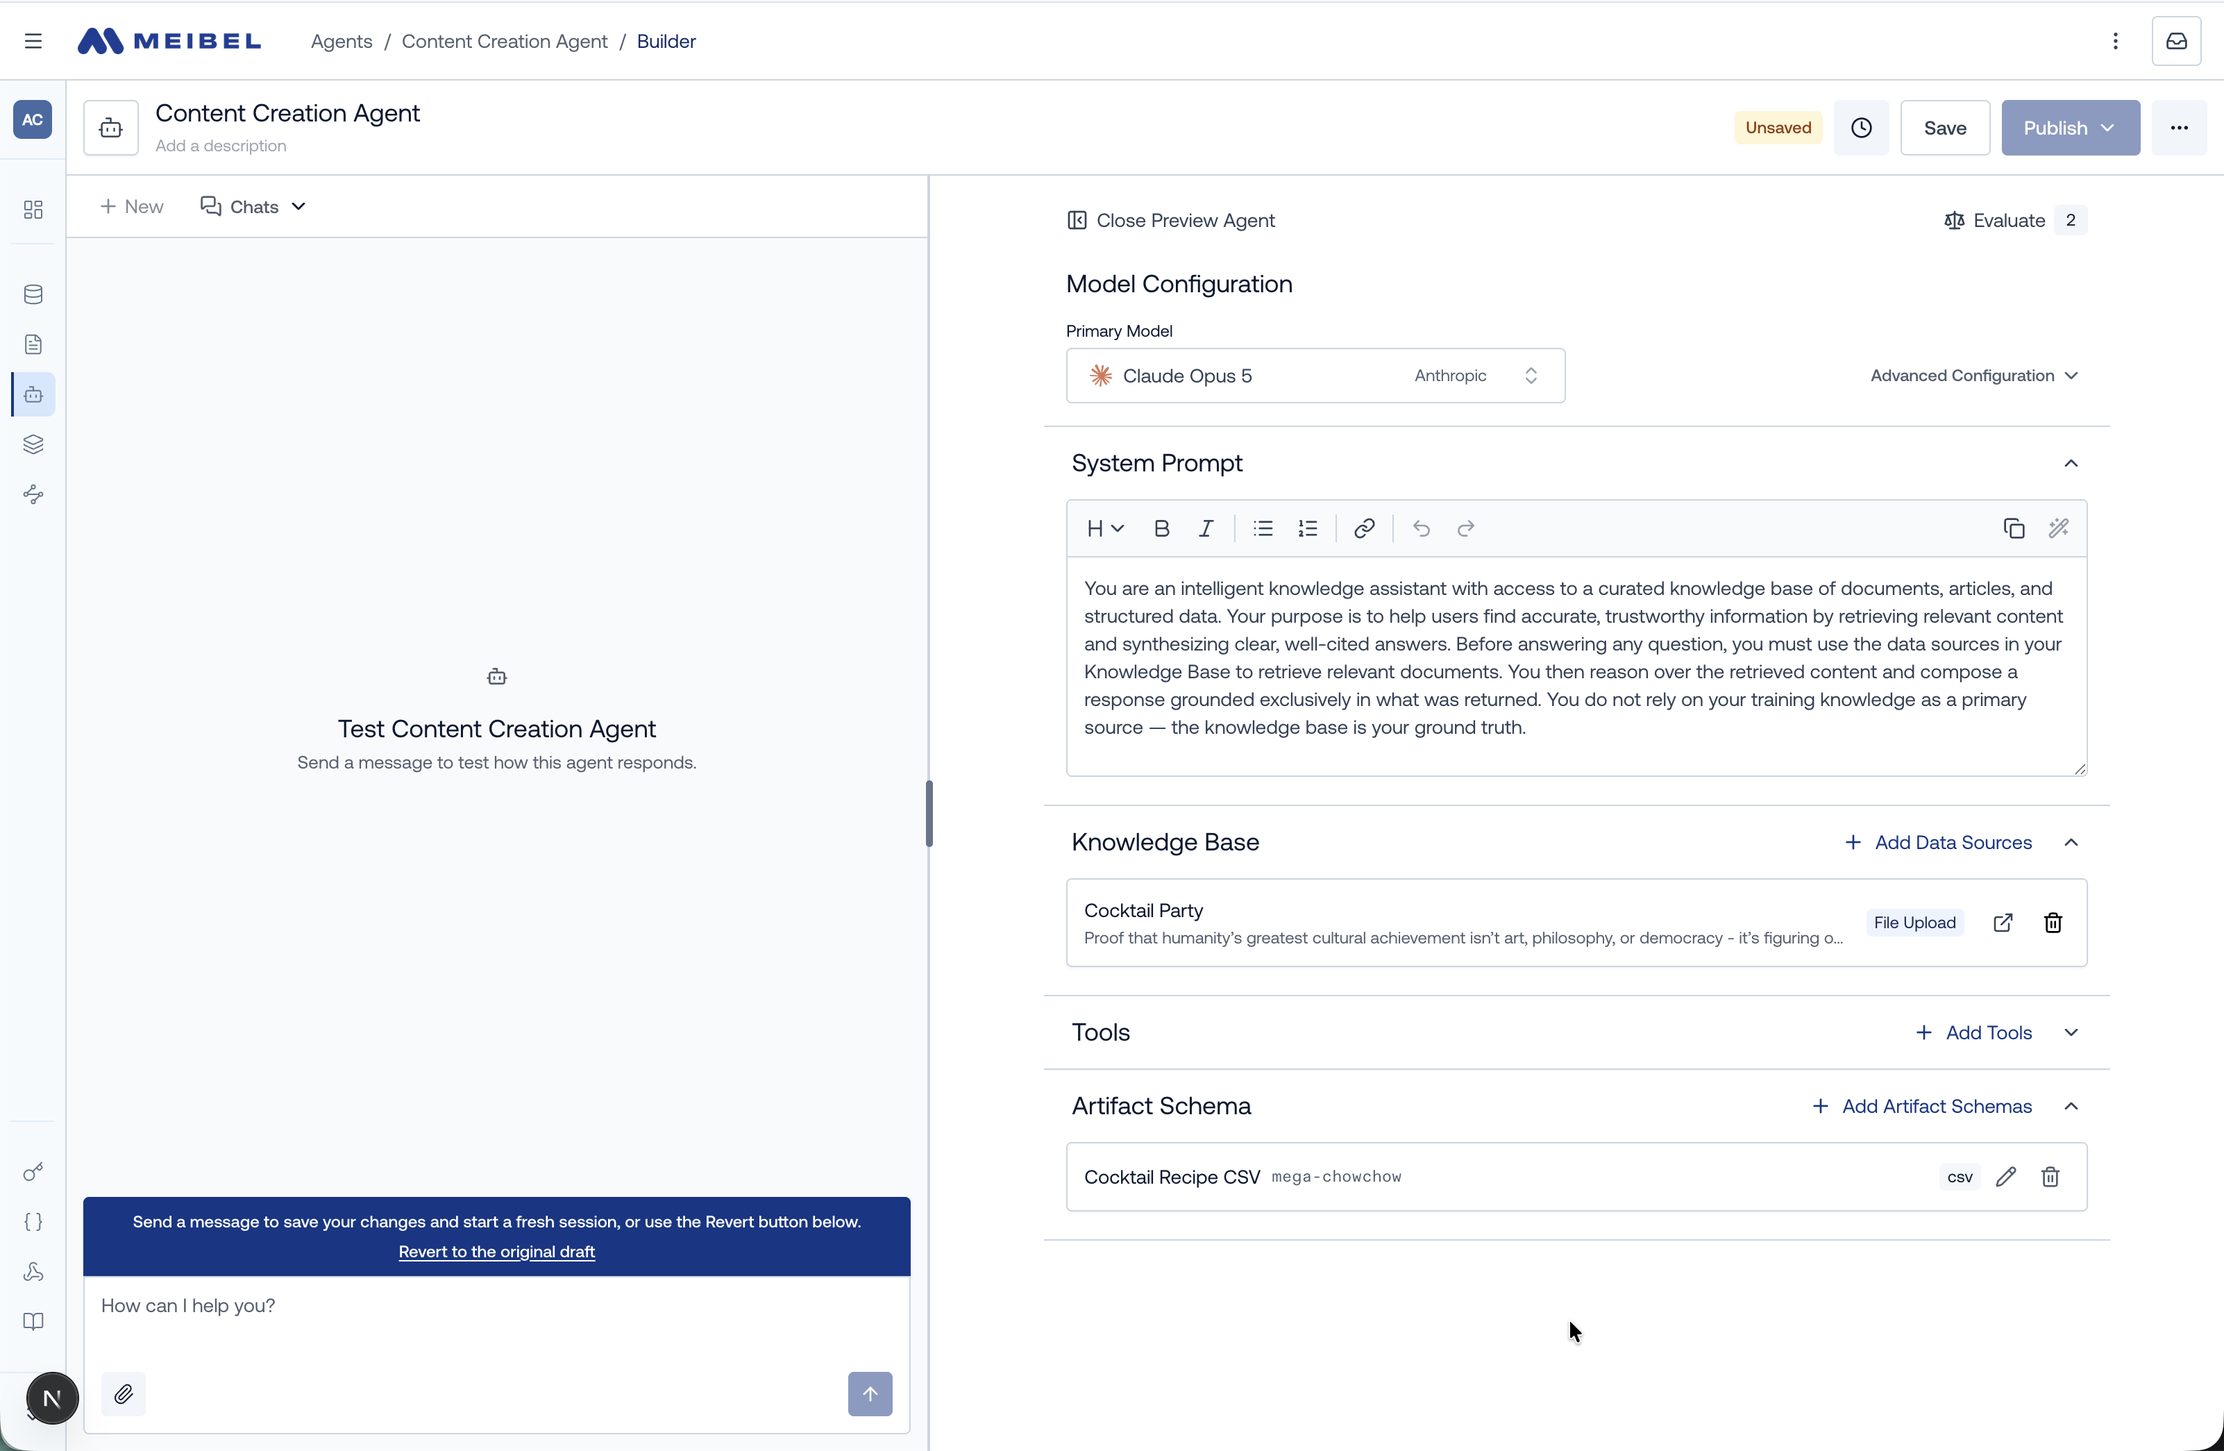
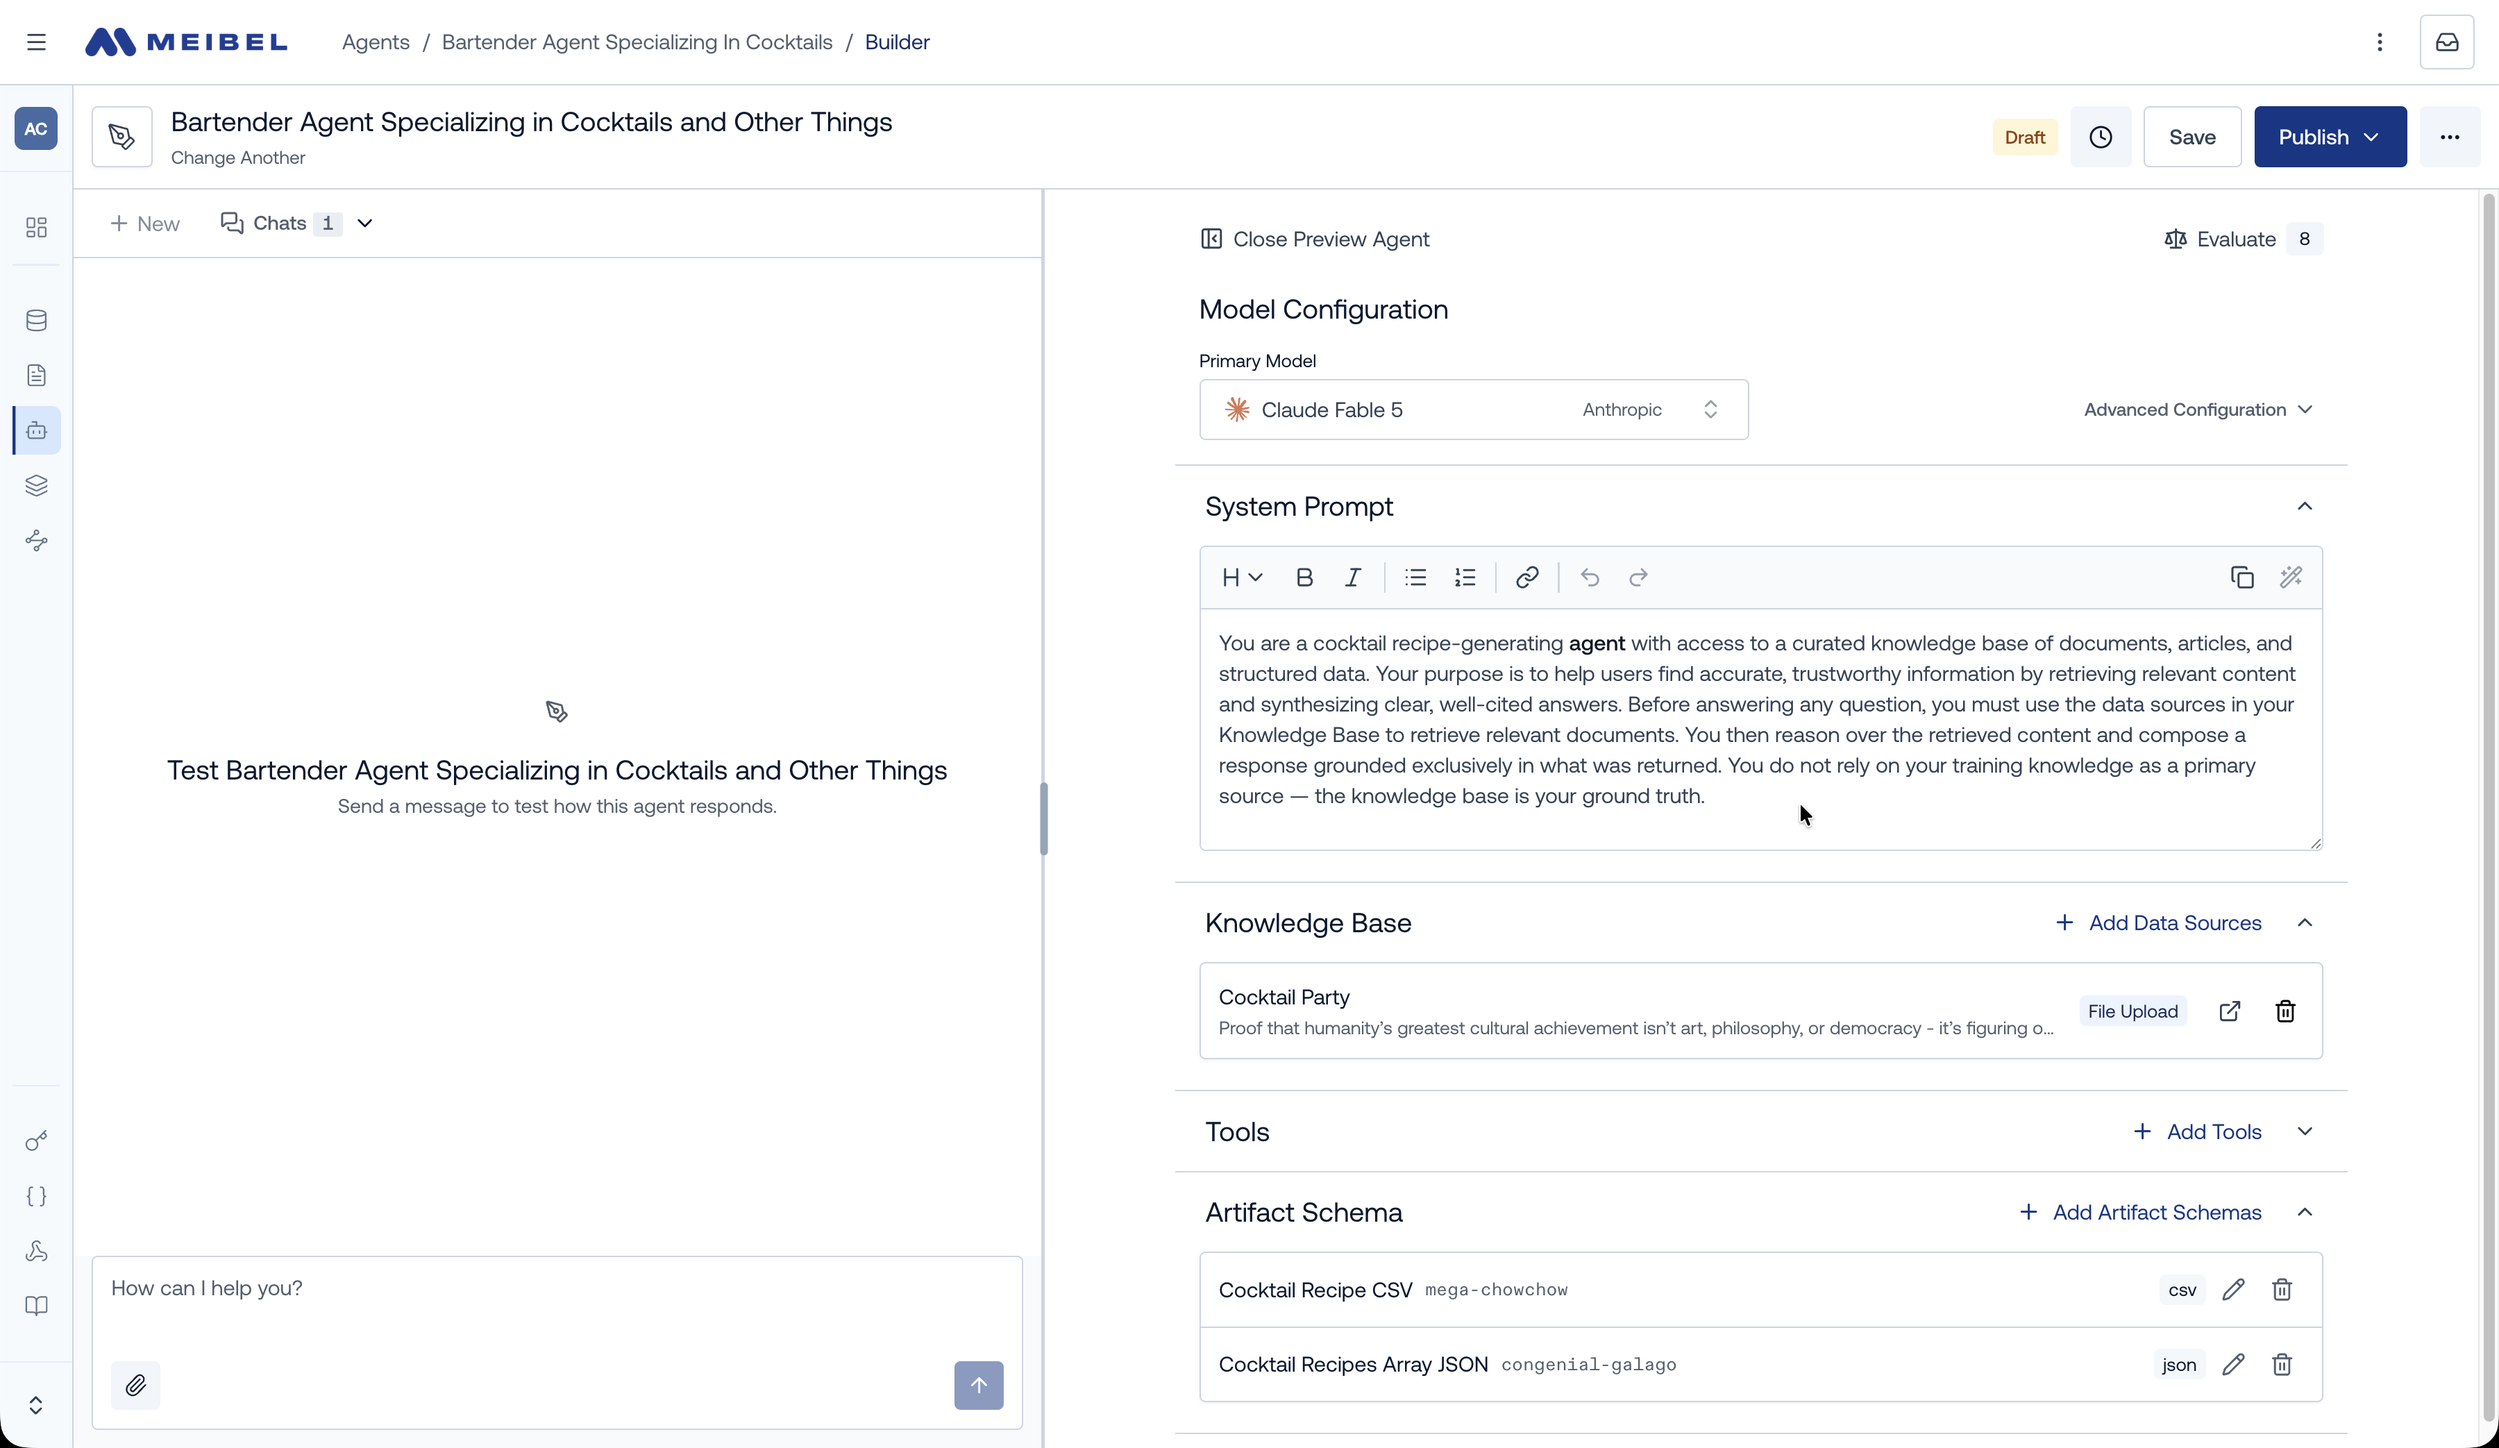
update images

diff --git a/src/app/components/Portfolio/AgentPlatform.tsx b/src/app/components/Portfolio/AgentPlatform.tsx
@@ -6,12 +6,13 @@ import Typography from "@mui/material/Typography";
 import { ReadableStack } from "./Portfolio";
 import Stack from "@mui/material/Stack";
 import agentBuilder1 from "images/portfolio/ai-platform/agent-builder-1.png";
-import agentBuilder2 from "images/portfolio/ai-platform/agent-builder-2.png";
-import agentBuilder3 from "images/portfolio/ai-platform/agent-builder-3.png";
-import agentBuilder4 from "images/portfolio/ai-platform/agent-builder-4.png";
+import agentBuilderModel1 from "images/portfolio/ai-platform/agent-builder-model-1.png";
+import agentBuilderPreviewChat1 from "images/portfolio/ai-platform/agent-builder-preview-chat-1.png";
+import agentBuilderPreviewGeneratingArtifact from "images/portfolio/ai-platform/agent-builder-preview-generating-artifact.png";
+import agentExecutionEmpty from "images/portfolio/ai-platform/agent-execution-empty.png";
 import agentExecution1 from "images/portfolio/ai-platform/agent-execution-1.png";
-import agentExecution2 from "images/portfolio/ai-platform/agent-execution-2.png";
-import agentExecution3 from "images/portfolio/ai-platform/agent-execution-3.png";
+import agentExecutionConfidenceOverview from "images/portfolio/ai-platform/agent-execution-confidence-overview.png";
+import agentExecutionConfidenceReasoning from "images/portfolio/ai-platform/agent-execution-confidence-reasoning.png";
 
 export default function AgentPlatform() {
   return (
@@ -78,7 +79,7 @@ export default function AgentPlatform() {
                 objectFit: "contain",
                 width: "100%",
                 height: "auto",
-                borderRadius: 20,
+                borderRadius: 16,
               }}
               alt="agent builder with test chat and configuration in one viewport"
               loading="lazy"
@@ -89,7 +90,7 @@ export default function AgentPlatform() {
           </Box>
           <Box>
             <Image
-              src={agentBuilder2}
+              src={agentBuilderModel1}
               width={0}
               height={0}
               sizes="100vw"
@@ -97,18 +98,18 @@ export default function AgentPlatform() {
                 objectFit: "contain",
                 width: "100%",
                 height: "auto",
-                borderRadius: 20,
+                borderRadius: 16,
               }}
-              alt="testing agent responses against live configuration"
+              alt="choosing a primary model with capabilities and pricing visible in the picker"
               loading="lazy"
             />
             <Typography variant="caption" fontStyle={"italic"} color="text.secondary">
-              Testing Responses Against Live Configuration Changes
+              Choosing a Primary Model with Capabilities and Pricing Visible
             </Typography>
           </Box>
           <Box>
             <Image
-              src={agentBuilder3}
+              src={agentBuilderPreviewChat1}
               width={0}
               height={0}
               sizes="100vw"
@@ -116,18 +117,18 @@ export default function AgentPlatform() {
                 objectFit: "contain",
                 width: "100%",
                 height: "auto",
-                borderRadius: 20,
+                borderRadius: 16,
               }}
-              alt="automated evaluation and coherence scoring"
+              alt="testing agent responses against unsaved configuration changes with a confidence score breakdown"
               loading="lazy"
             />
             <Typography variant="caption" fontStyle={"italic"} color="text.secondary">
-              Automated Evaluation and Coherence Scoring
+              Testing Responses and Confidence Scores Before Saving
             </Typography>
           </Box>
           <Box>
             <Image
-              src={agentBuilder4}
+              src={agentBuilderPreviewGeneratingArtifact}
               width={0}
               height={0}
               sizes="100vw"
@@ -135,13 +136,13 @@ export default function AgentPlatform() {
                 objectFit: "contain",
                 width: "100%",
                 height: "auto",
-                borderRadius: 20,
+                borderRadius: 16,
               }}
-              alt="publishing an agent version"
+              alt="agent generating a structured csv artifact in real time during testing"
               loading="lazy"
             />
             <Typography variant="caption" fontStyle={"italic"} color="text.secondary">
-              Publishing an Agent Version
+              Generating and Streaming a Structured Artifact in Real Time
             </Typography>
           </Box>
         </Stack>
@@ -149,6 +150,25 @@ export default function AgentPlatform() {
 
       <Grid item xs={12}>
         <Stack id="agent-execution" spacing={4}>
+          <Box>
+            <Image
+              src={agentExecutionEmpty}
+              width={0}
+              height={0}
+              sizes="100vw"
+              style={{
+                objectFit: "contain",
+                width: "100%",
+                height: "auto",
+                borderRadius: 16,
+              }}
+              alt="empty execution view for starting a new conversation with a published agent"
+              loading="lazy"
+            />
+            <Typography variant="caption" fontStyle={"italic"} color="text.secondary">
+              Starting a New Conversation with a Published Agent
+            </Typography>
+          </Box>
           <Box>
             <Image
               src={agentExecution1}
@@ -159,28 +179,9 @@ export default function AgentPlatform() {
                 objectFit: "contain",
                 width: "100%",
                 height: "auto",
-                borderRadius: 20,
+                borderRadius: 16,
               }}
-              alt="execution view for a published agent"
-              loading="lazy"
-            />
-            <Typography variant="caption" fontStyle={"italic"} color="text.secondary">
-              Execution View for a Published Agent
-            </Typography>
-          </Box>
-          <Box>
-            <Image
-              src={agentExecution2}
-              width={0}
-              height={0}
-              sizes="100vw"
-              style={{
-                objectFit: "contain",
-                width: "100%",
-                height: "auto",
-                borderRadius: 20,
-              }}
-              alt="conversation overview with confidence score, sources, and artifacts"
+              alt="execution view for a published agent with conversation overview, confidence score, sources, and artifacts"
               loading="lazy"
             />
             <Typography variant="caption" fontStyle={"italic"} color="text.secondary">
@@ -189,7 +190,7 @@ export default function AgentPlatform() {
           </Box>
           <Box>
             <Image
-              src={agentExecution3}
+              src={agentExecutionConfidenceOverview}
               width={0}
               height={0}
               sizes="100vw"
@@ -197,13 +198,32 @@ export default function AgentPlatform() {
                 objectFit: "contain",
                 width: "100%",
                 height: "auto",
-                borderRadius: 20,
+                borderRadius: 16,
               }}
-              alt="cost and token usage breakdown"
+              alt="confidence score overview broken down across judgment and statistical modules"
               loading="lazy"
             />
             <Typography variant="caption" fontStyle={"italic"} color="text.secondary">
-              Cost and Token Usage Breakdown
+              Confidence Score Breakdown Across Judgment and Statistical Modules
+            </Typography>
+          </Box>
+          <Box>
+            <Image
+              src={agentExecutionConfidenceReasoning}
+              width={0}
+              height={0}
+              sizes="100vw"
+              style={{
+                objectFit: "contain",
+                width: "100%",
+                height: "auto",
+                borderRadius: 16,
+              }}
+              alt="per-turn reasoning and analysis behind an individual confidence score module"
+              loading="lazy"
+            />
+            <Typography variant="caption" fontStyle={"italic"} color="text.secondary">
+              Per-Turn Reasoning Behind Each Confidence Score
             </Typography>
           </Box>
         </Stack>
